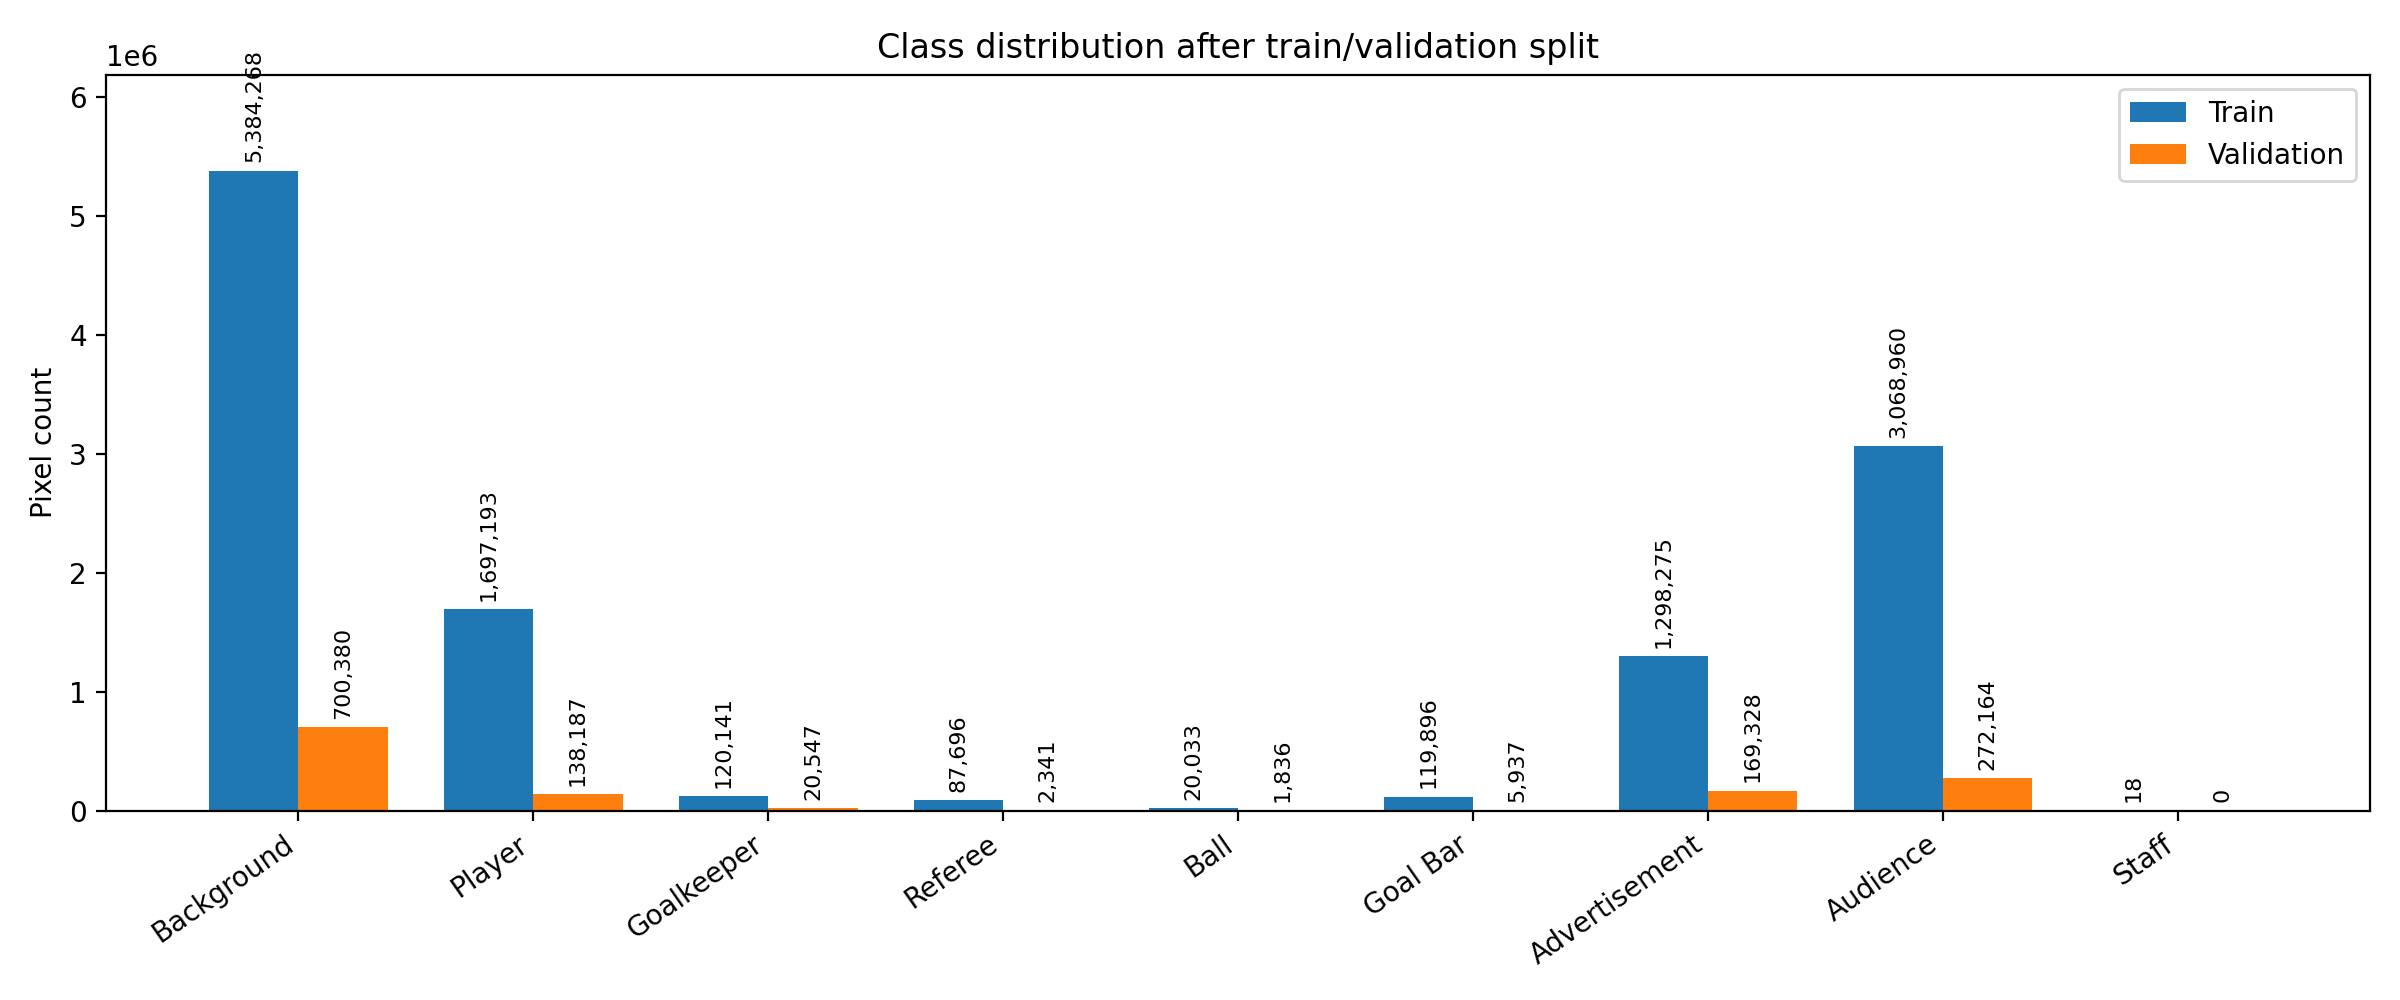
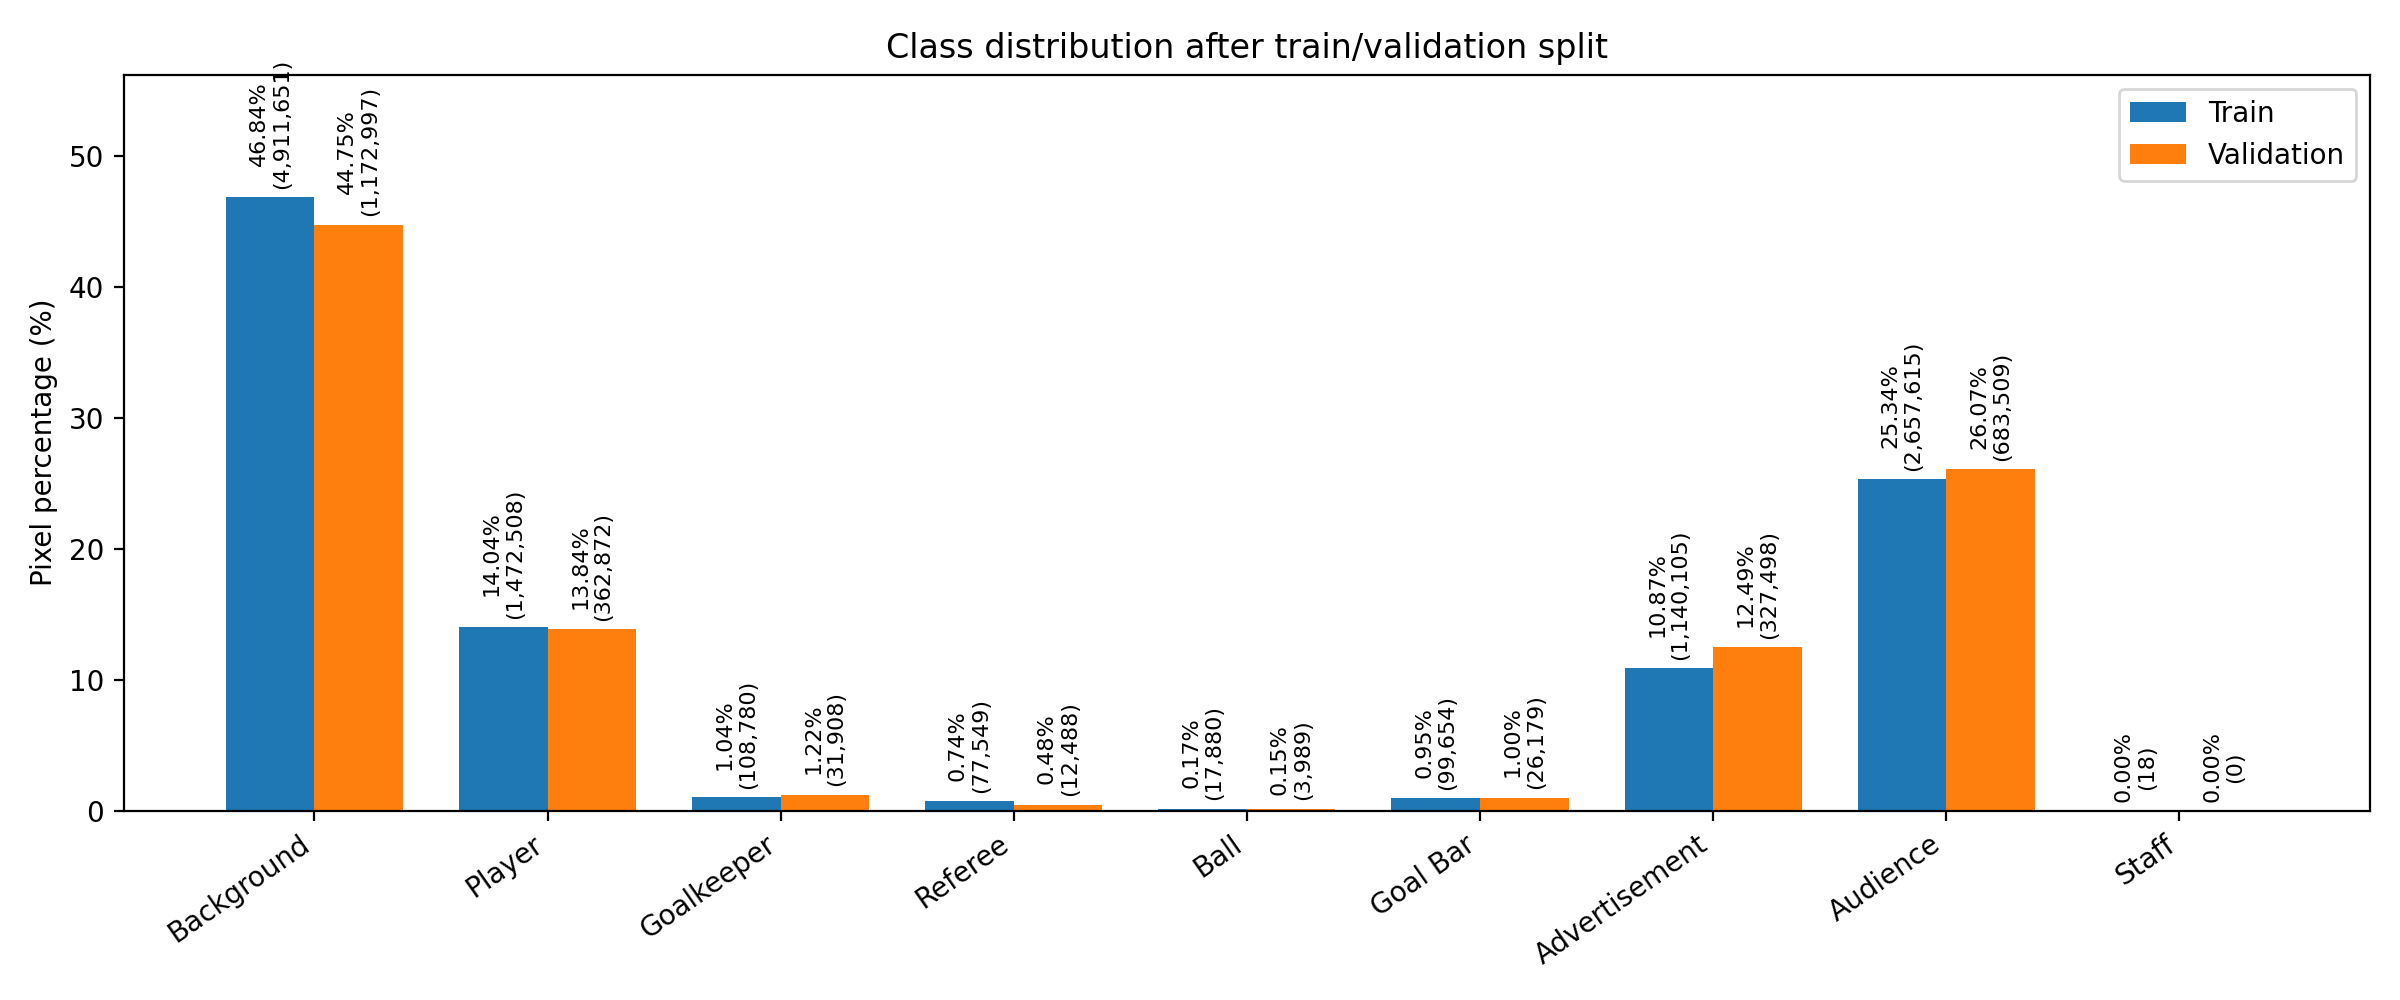
Minor changes in config

diff --git a/utils/visualization.py b/utils/visualization.py
@@ -45,18 +45,21 @@ def plot_class_distribution(
     x = np.arange(len(UNIFIED_CLASSES))
     width = 0.38
 
+    train_pct = train_counts / max(train_counts.sum(), 1) * 100.0
+    val_pct = val_counts / max(val_counts.sum(), 1) * 100.0
+
     fig, ax = plt.subplots(figsize=(12, 5))
 
     train_bars = ax.bar(
         x - width / 2,
-        train_counts,
+        train_pct,
         width,
         label="Train",
     )
 
     val_bars = ax.bar(
         x + width / 2,
-        val_counts,
+        val_pct,
         width,
         label="Validation",
     )
@@ -64,19 +67,18 @@ def plot_class_distribution(
     ax.set_xticks(x)
     ax.set_xticklabels(UNIFIED_CLASSES, rotation=35, ha="right")
 
-    ax.set_ylabel("Pixel count")
+    ax.set_ylabel("Pixel percentage (%)")
     ax.set_title("Class distribution after train/validation split")
 
     # Normal / linear scale
     ax.set_yscale("linear")
-    # Or simply remove this line entirely.
 
     ax.legend()
 
-    # Add numbers on bars
+    # Show percentage on each bar
     ax.bar_label(
         train_bars,
-        labels=[f"{int(v):,}" for v in train_counts],
+        labels=[f"{pct:.2f}%\n({int(cnt):,})" for pct, cnt in zip(train_pct, train_counts)],
         padding=3,
         fontsize=8,
         rotation=90,
@@ -84,15 +86,15 @@ def plot_class_distribution(
 
     ax.bar_label(
         val_bars,
-        labels=[f"{int(v):,}" for v in val_counts],
+        labels=[f"{pct:.2f}%\n({int(cnt):,})" for pct, cnt in zip(val_pct, val_counts)],
         padding=3,
         fontsize=8,
         rotation=90,
     )
 
     # Add space above bars for labels
-    max_count = max(train_counts.max(), val_counts.max())
-    ax.set_ylim(0, max_count * 1.15 if max_count > 0 else 1)
+    max_pct = max(train_pct.max(), val_pct.max())
+    ax.set_ylim(0, max_pct * 1.20 if max_pct > 0 else 1)
 
     fig.tight_layout()
     fig.savefig(output_path, dpi=200)
